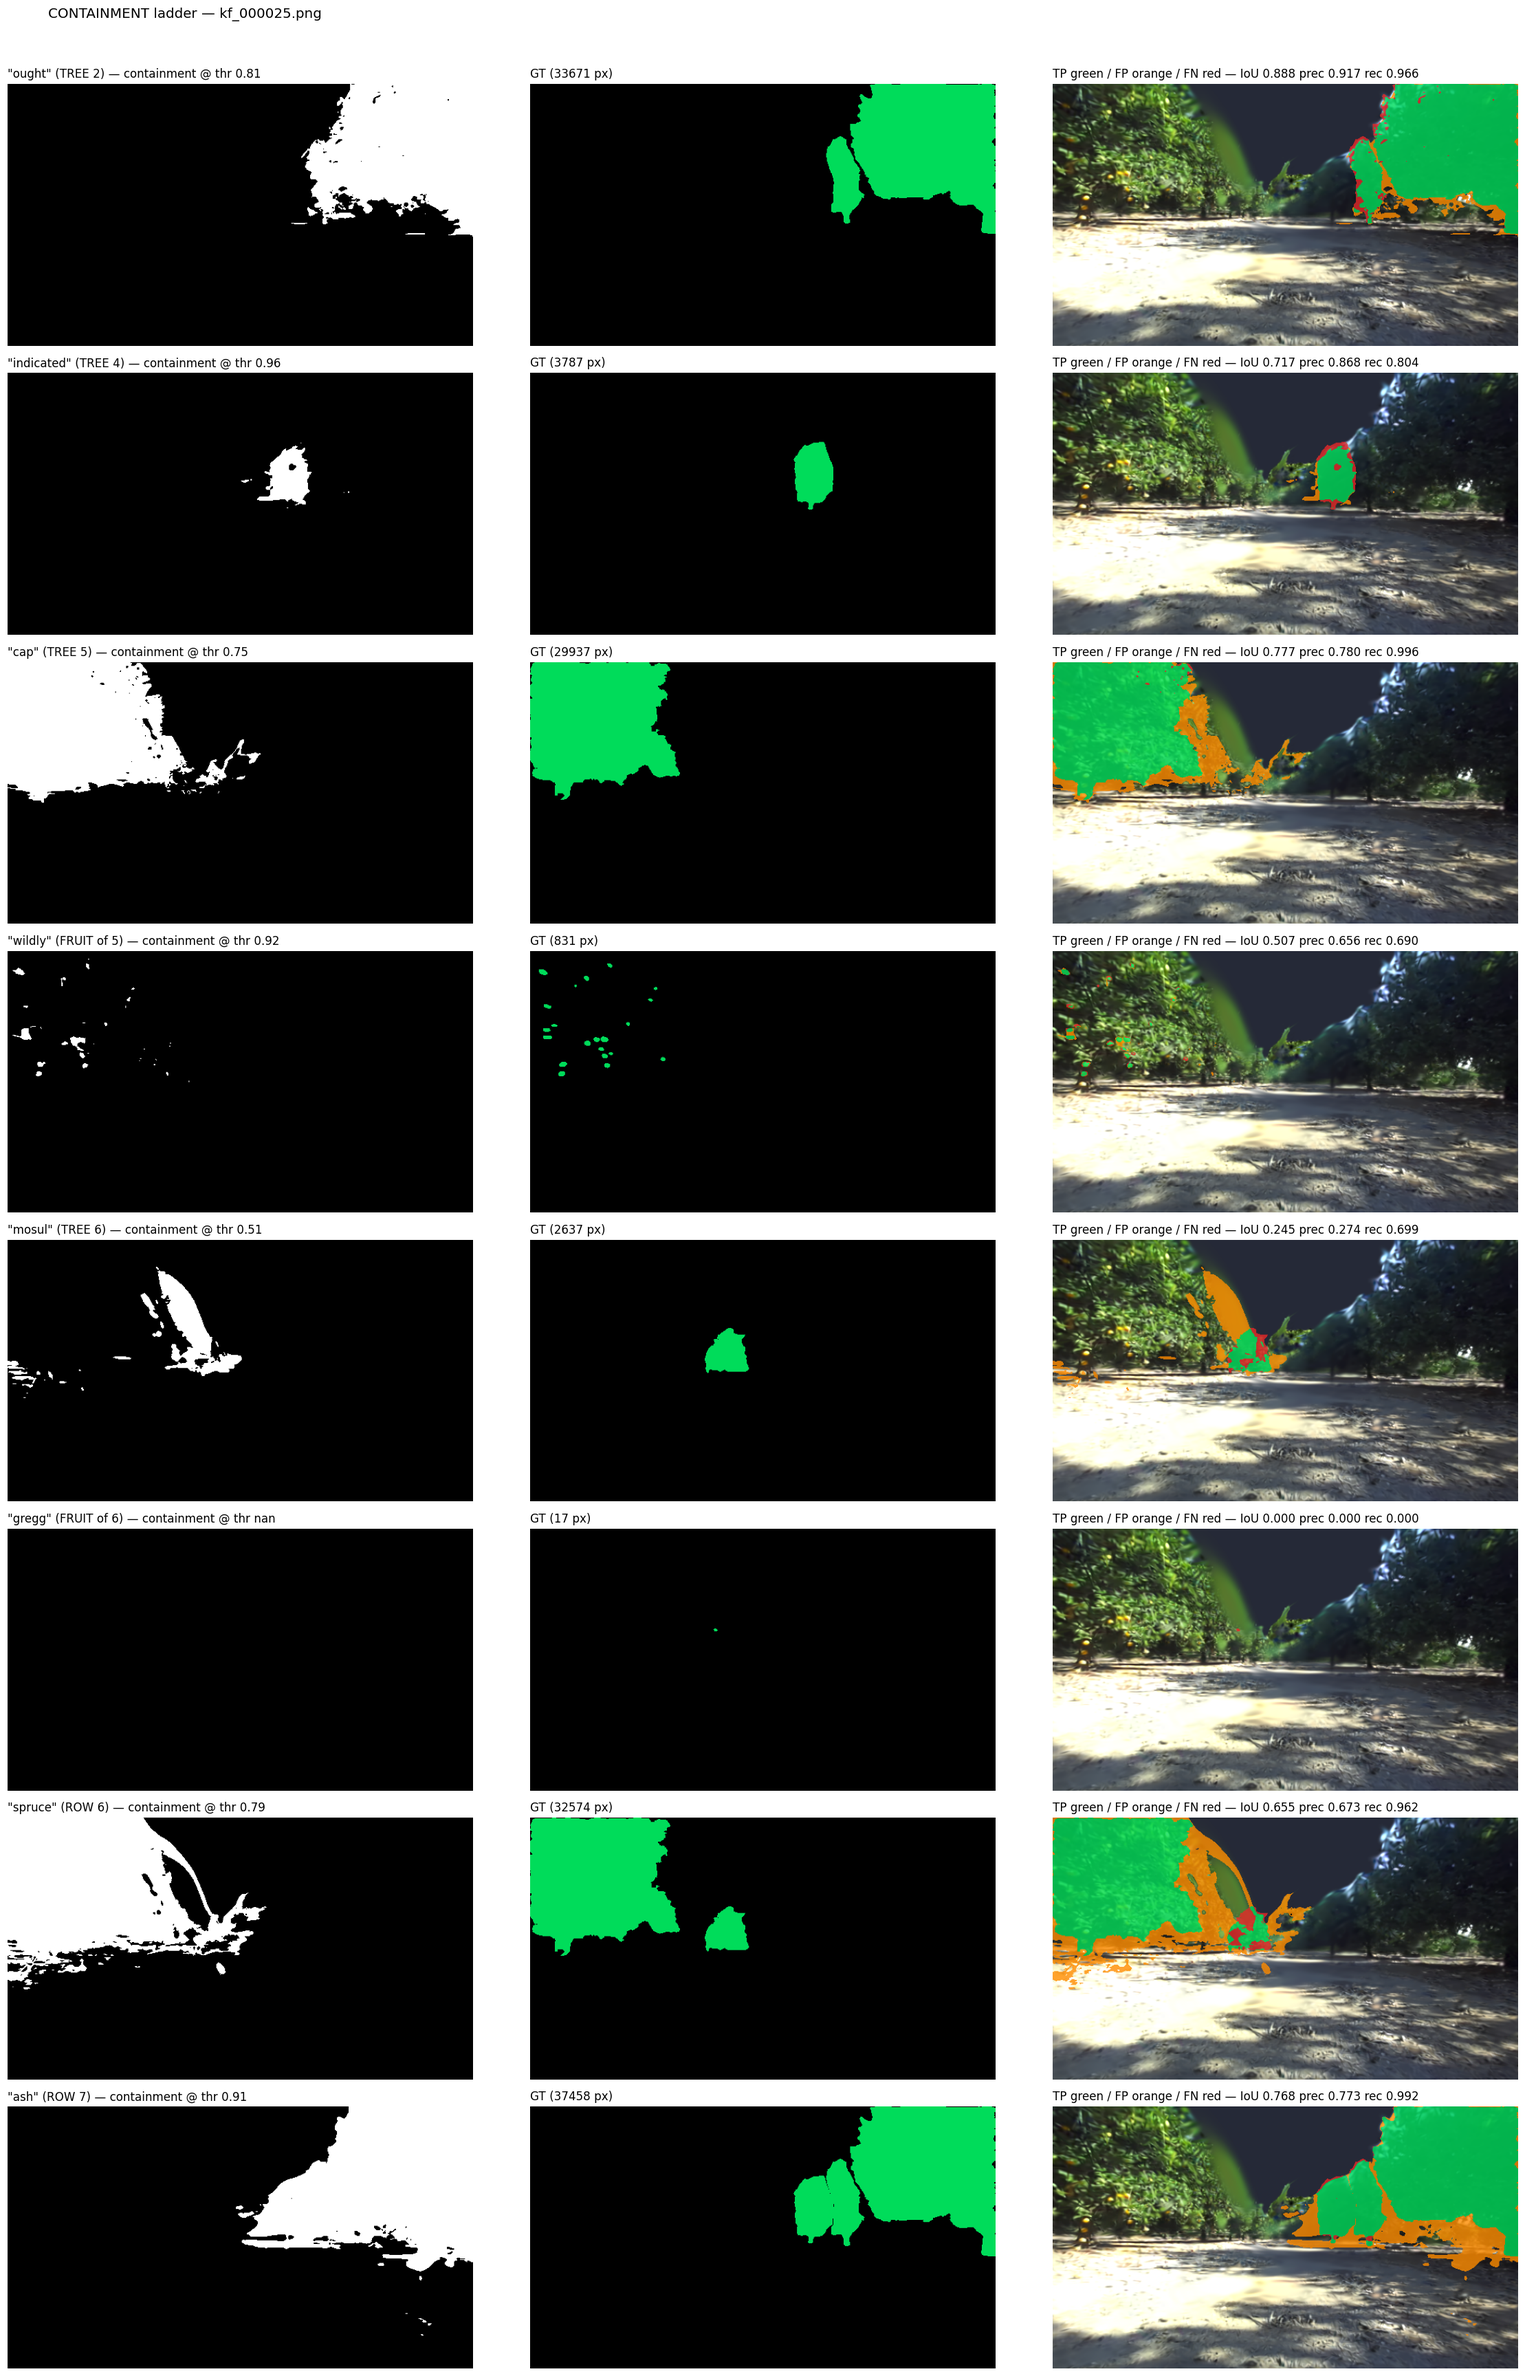
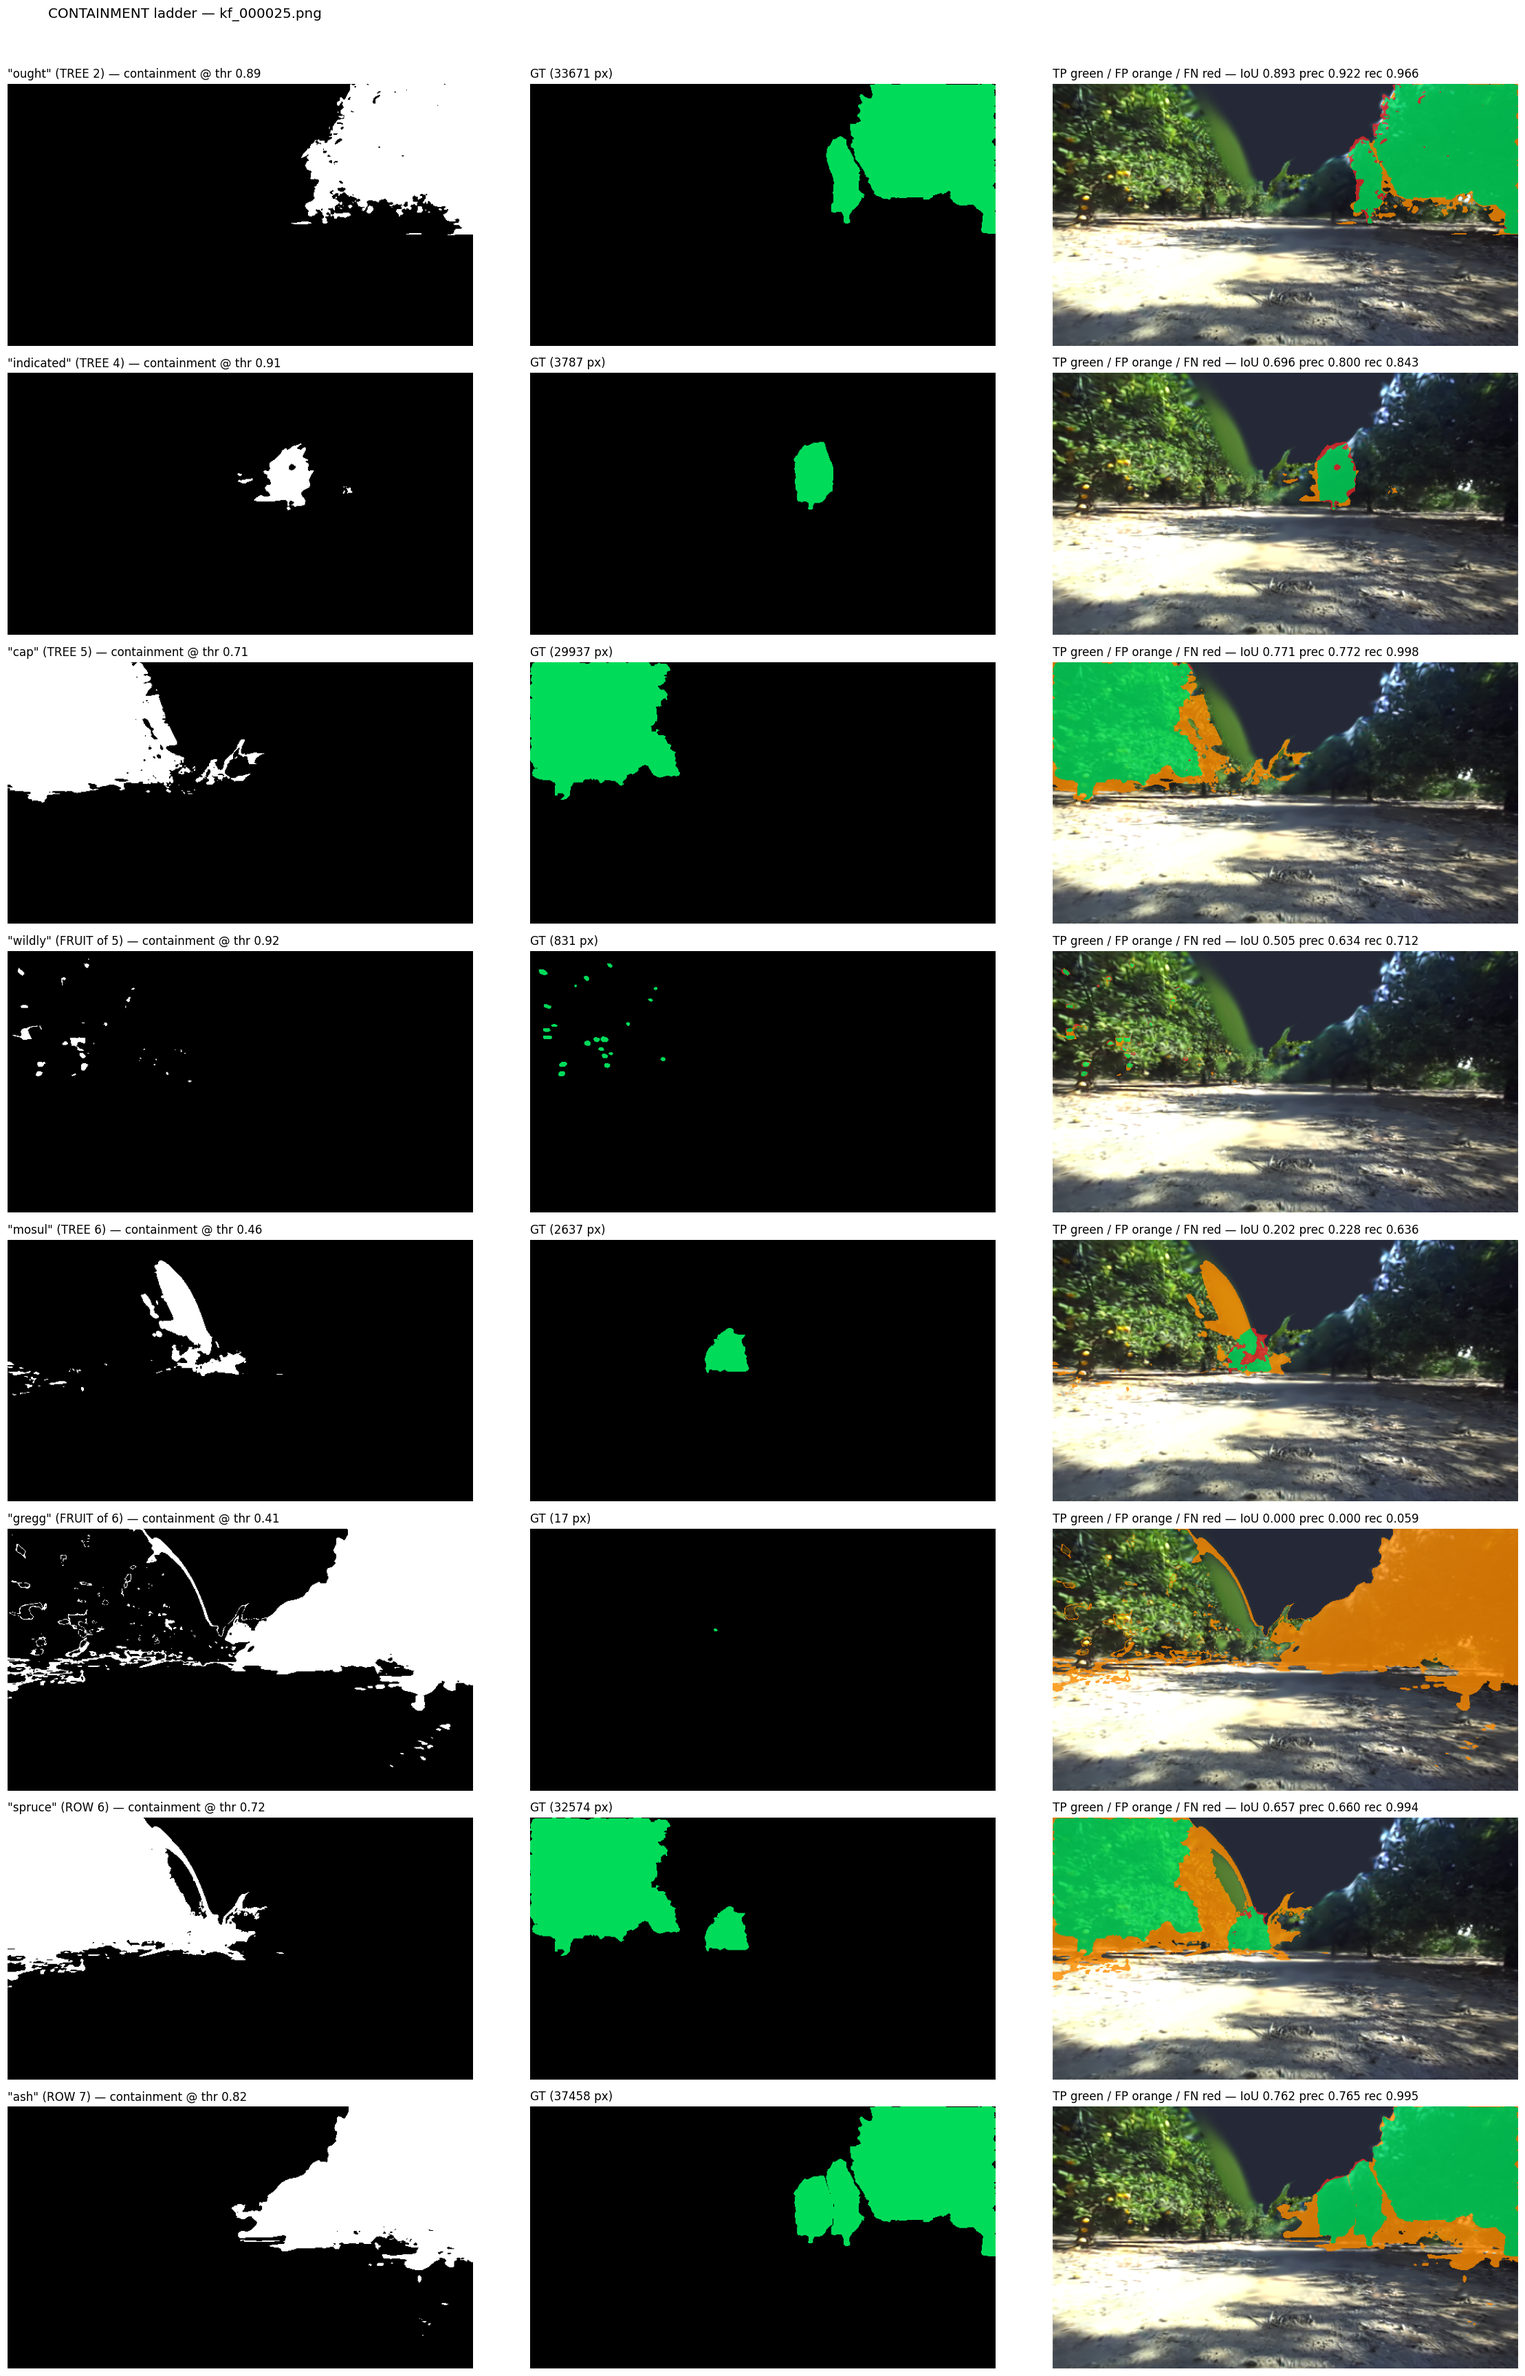
notebook: 05 embedder era-split incident — diagnosis, fleet repair, demo v4 numbers

diff --git a/lab_notebook/2026-08.md b/lab_notebook/2026-08.md
@@ -3534,3 +3534,22 @@ three layers, not just in the video:
   ujamaa/demo/ including the PSNR grader + trim tools.
 One stale-process lesson re-learned: a service restart that races its own
 patch serves old code — mtime-vs-process-start is the check.
+
+## 2026-08-30 — 05 embedder era-split: fruit containment silently dead on 40/43 blocks (found via demo IoU check)
+**Goal.** Paul: demo query pauses don't look like containment answers — measure IoUs on those frames (row/tree/fruit).
+**Run.** Live-stream IoU harness (stabilized, :8004) on the v3 pause frames; then certified `containment_eval` re-run on b040/kf_003256; then log+mtime forensics.
+**Result.**
+- tree 71 (b013, auto-Otsu): IoU **0.853** prec 0.896 rec 0.946 — genuine containment answer.
+- row 2 (b013, cut 0.60): 283k px, rec 0.5 — label-limited (only trees 71/72 of the row painted in-frame); visually correct.
+- fruit 10002 (b040): IoU **0.000** at every cut, generative AND discriminative (softmax-over-anchors) — fruit GT pixels sit at frame-median heat.
+- Certified `containment_eval` TODAY on the same frame: fruit IoU **0.001** vs **0.787** in the 08-27 verdict log. Viewer path is faithful; the data changed.
+**Root cause.** Fruit requeue at 08-28 04:34 (`fruit_requeue_0518.log`) re-ran the 3 densify-failed blocks (3,4,18) with `--steps all`, which **retrained the survey embedder** (04:36) before its block loop. The other 40 blocks' fields (trained 08-27 against the 05:33 embedder) now decode through the wrong latent space. Tree anchors survive by re-convergence (dense constraints → similar positions: 0.853); sparse fruit anchors land elsewhere (0.787 → 0.001). Old embedder bytes overwritten in place; no local copy.
+**Decision (Paul).** Fleet repair, demo blocks first: `fruit_chain.sh 05_13D_Jackal --steps blocks --blocks 13,40,<rest>` (~7.5 h). New `--steps blocks` recovery mode (block loop vs CURRENT embedder, no retrain) + guard: `--steps all` with a partial `--blocks` list now REFUSES to run.
+**Next.** After b013/b040 verdicts: restart :8004, re-measure pause IoUs, patch pauses, reassemble demo v4. Outcome appended below.
+
+**Outcome (same day).** b013/b040 re-trained against the current embedder (~15 min each):
+- b013 verdict: tree 71 IoU **0.938** (was 0.853 live on broken pairing), trees 52/53 ~0.89; fruit-of-72 0.363.
+- b040 verdict: fruit 'gregg' IoU **0.814** thr 0.91 (beats the orphaned era's 0.787); rows 0.77/0.69.
+- Live stream re-measured (stabilized harness, per-channel-std sky guard — whole-array std of the flat sky is ~41 and defeated a global gate): tree 71 **0.936**/0.965/0.968; row 2 recall **0.993** with cross-row bleed 0.7% at cut 0.78 (0.60 lit the OPPOSITE row at 0.989 — cut raised to 0.85 in the reel); fruit 10002 IoU **0.484** prec 0.583 rec 0.741 at cut 0.88 on the 251-px pause view.
+- Demo v4 reassembled (95 s) with honest caption numbers; pause stills verified frame-by-frame.
+- Remaining 37 old-era blocks: repair chain relaunched 19:49, ~6.5 h. GPU note: concurrent trainer (29 GiB) OOM'd the service's containment pass; service now runs with expandable_segments and the repair was sequenced around the capture.
